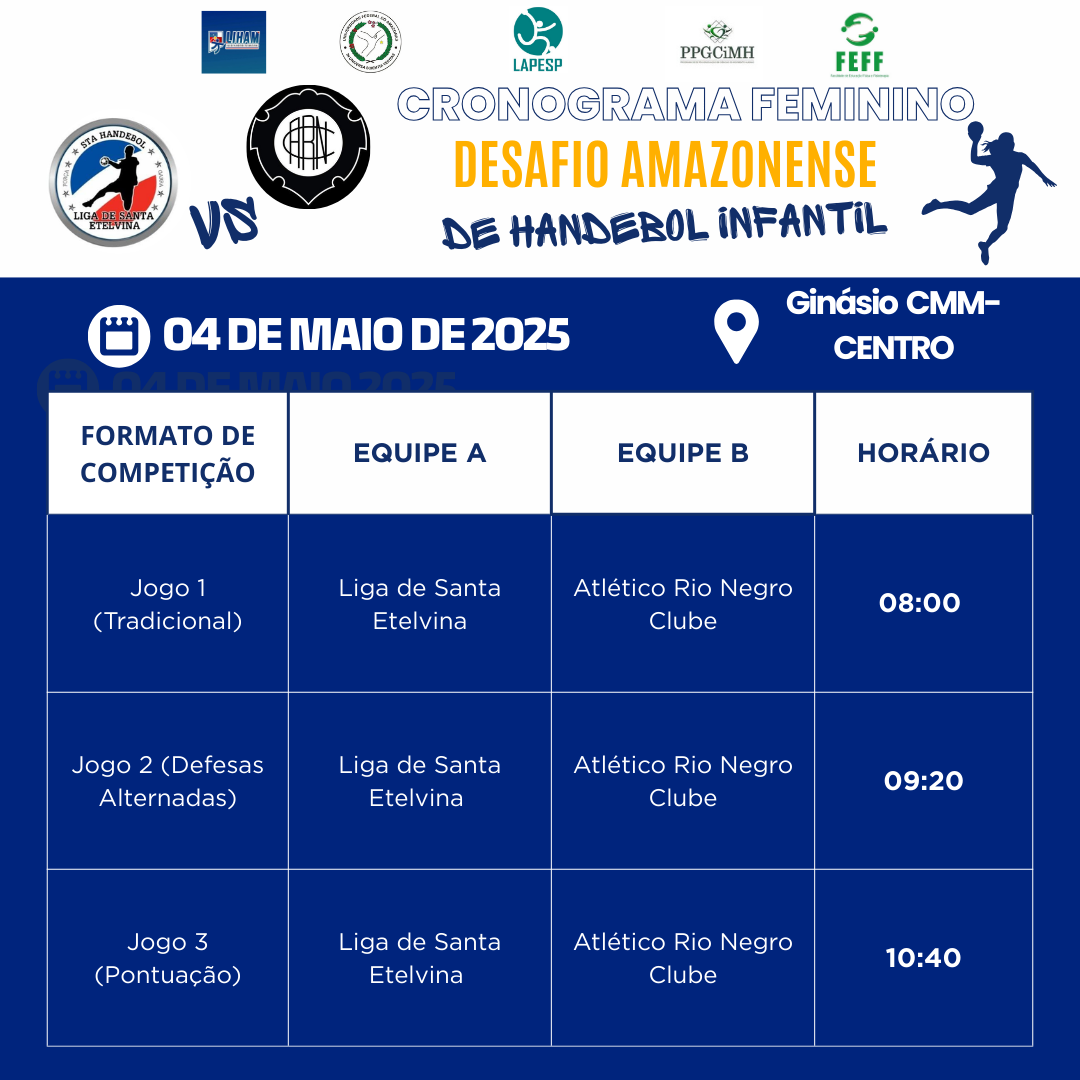
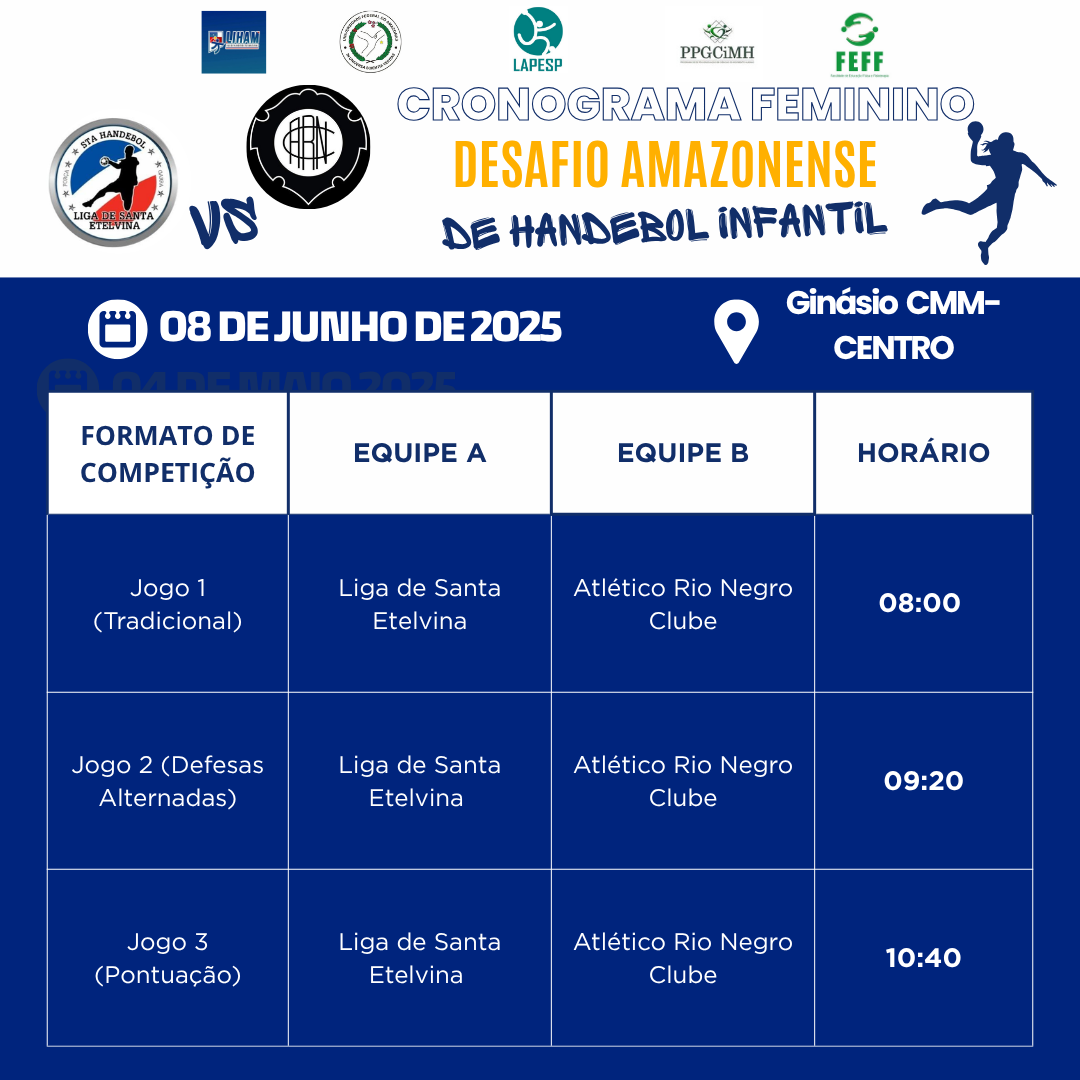
fix: dia da rodada 8 alterado

Changed region(s): [[0.0917, 0.275, 0.55, 0.3667]]

diff --git a/pages/jogos.html b/pages/jogos.html
@@ -18,14 +18,14 @@
                 <div class="games-table" style="align-items: center ;">
                     <div class="image-carousel">
                         <button class="carousel-button left" onclick="changeImage(-1)">&#8592;</button>
-                        <img src="..\assets\jogos_tabelas\17maio_cancelado1.png" alt="Tabela Rodada 3" class="carousel-image" style="display: block;" />
-                        <img src="..\assets\jogos_tabelas\17maio_cancelado2.png" alt="Tabela Rodada 3" class="carousel-image" style="display: none;" />
-                        <img src="..\assets\jogos_tabelas\18maio_novo1.png" alt="Tabela Rodada 4" class="carousel-image" style="display: none;" />
-                        <img src="..\assets\jogos_tabelas\18maio_novo2.png" alt="Tabela Rodada 4" class="carousel-image" style="display: none;" />
-                        <img src="..\assets\jogos_tabelas\9.png" alt="Tabela Rodada 5" class="carousel-image" style="display: none;" />
-                        <img src="..\assets\jogos_tabelas\10.png" alt="Tabela Rodada 5" class="carousel-image" style="display: none;" />
-                        <img src="..\assets\jogos_tabelas\11.png" alt="Tabela Rodada 6" class="carousel-image" style="display: none;" />
-                        <img src="..\assets\jogos_tabelas\12.png" alt="Tabela Rodada 6" class="carousel-image" style="display: none;" />
+                        <img src="..\assets\jogos_tabelas\1.png" alt="Tabela Rodada 3" class="carousel-image" style="display: none;" />
+                        <img src="..\assets\jogos_tabelas\2.png" alt="Tabela Rodada 3" class="carousel-image" style="display: none;" />
+                        <img src="..\assets\jogos_tabelas\17maio_cancelado1.png" alt="Tabela Rodada 4" class="carousel-image" style="display: block;" />
+                        <img src="..\assets\jogos_tabelas\17maio_cancelado2.png" alt="Tabela Rodada 4" class="carousel-image" style="display: none;" />
+                        <img src="..\assets\jogos_tabelas\18maio_novo1.png" alt="Tabela Rodada 5" class="carousel-image" style="display: none;" />
+                        <img src="..\assets\jogos_tabelas\18maio_novo2.png" alt="Tabela Rodada 5" class="carousel-image" style="display: none;" />
+                        <img src="..\assets\jogos_tabelas\9.png" alt="Tabela Rodada 6" class="carousel-image" style="display: none;" />
+                        <img src="..\assets\jogos_tabelas\10.png" alt="Tabela Rodada 6" class="carousel-image" style="display: none;" />
                         <button class="carousel-button right" onclick="changeImage(1)">&#8594;</button>
                     </div>
                 </div>
